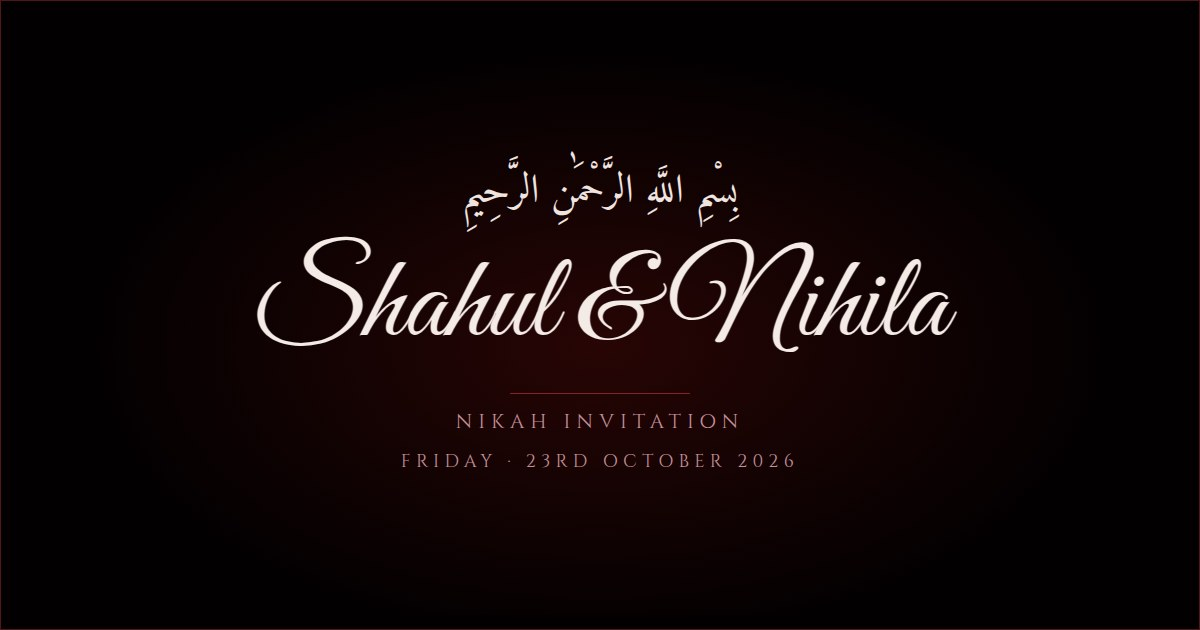
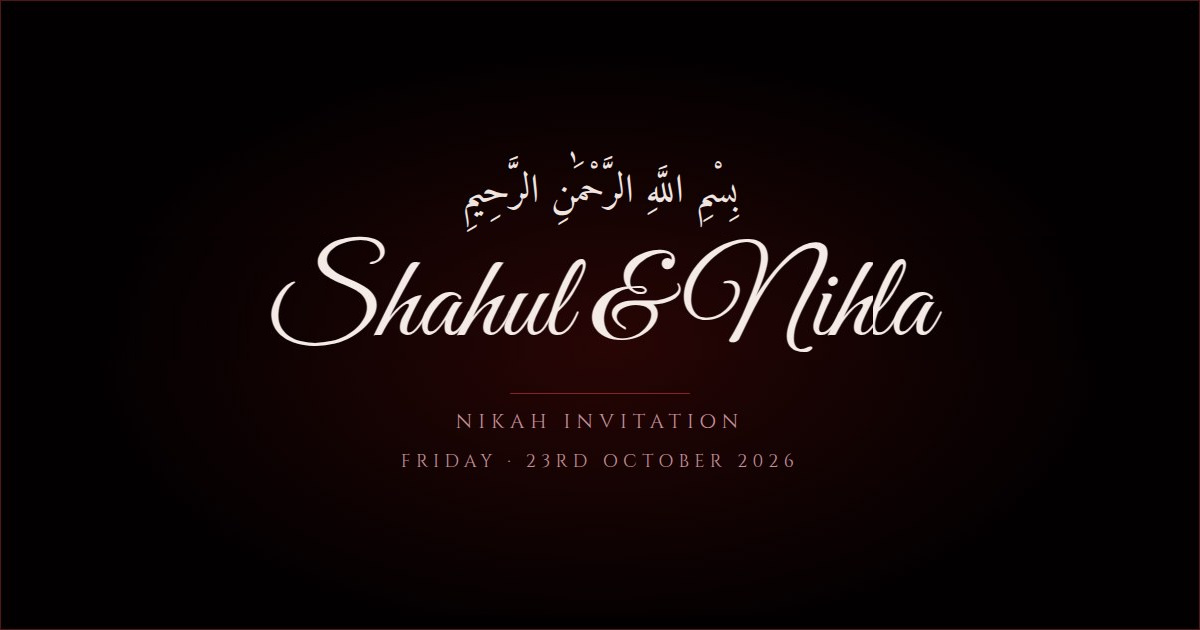
first commit

Changed region(s): [[0.2158, 0.3619, 0.8017, 0.573]]

diff --git a/index.html b/index.html
@@ -4,25 +4,25 @@
 <head>
   <meta charset="UTF-8">
   <meta name="viewport" content="width=device-width, initial-scale=1.0">
-  <title>Shahul &amp; Nihila — Nikah Invitation</title>
+  <title>Shahul &amp; Nihla — Nikah Invitation</title>
   <meta name="description"
-    content="Nikah invitation for Shahul and Nihila — Friday, 23rd October 2026 at West Meenadathur Juma Masjid, Moochikkal">
+    content="Nikah invitation for Shahul and Nihla — Friday, 23rd October 2026 at West Meenadathur Juma Masjid, Moochikkal">
 
   <!-- Open Graph -->
   <meta property="og:type" content="website">
-  <meta property="og:url" content="https://shahul-nihila.vercel.app/">
-  <meta property="og:title" content="Shahul &amp; Nihila — Nikah Invitation">
-  <meta property="og:description" content="Nikah invitation for Shahul and Nihila — Friday, 23rd October 2026">
-  <meta property="og:image" content="https://shahul-nihila.vercel.app/og.jpg">
+  <meta property="og:url" content="https://shahul-nihla.vercel.app/">
+  <meta property="og:title" content="Shahul &amp; Nihla — Nikah Invitation">
+  <meta property="og:description" content="Nikah invitation for Shahul and Nihla — Friday, 23rd October 2026">
+  <meta property="og:image" content="https://shahul-nihla.vercel.app/og.jpg">
   <meta property="og:image:width" content="1200">
   <meta property="og:image:height" content="630">
 
   <!-- Twitter -->
   <meta property="twitter:card" content="summary_large_image">
-  <meta property="twitter:url" content="https://shahul-nihila.vercel.app/">
-  <meta property="twitter:title" content="Shahul &amp; Nihila — Nikah Invitation">
-  <meta property="twitter:description" content="Nikah invitation for Shahul and Nihila — Friday, 23rd October 2026">
-  <meta property="twitter:image" content="https://shahul-nihila.vercel.app/og.jpg">
+  <meta property="twitter:url" content="https://shahul-nihla.vercel.app/">
+  <meta property="twitter:title" content="Shahul &amp; Nihla — Nikah Invitation">
+  <meta property="twitter:description" content="Nikah invitation for Shahul and Nihla — Friday, 23rd October 2026">
+  <meta property="twitter:image" content="https://shahul-nihla.vercel.app/og.jpg">
 
   <link rel="preconnect" href="https://fonts.googleapis.com">
   <link rel="preconnect" href="https://fonts.gstatic.com" crossorigin>
@@ -85,7 +85,7 @@
       <div class="splash-names">
         <span class="splash-name">Shahul</span>
         <span class="splash-amp">&amp;</span>
-        <span class="splash-name">Nihila</span>
+        <span class="splash-name">Nihla</span>
       </div>
       <p class="splash-tagline">Together with our families</p>
       <button class="splash-btn" id="openInvitationBtn">
@@ -135,7 +135,7 @@
         </span>
         <span class="amp">&amp;</span>
         <span class="name-block">
-          <span class="name-text">Nihila</span>
+          <span class="name-text">Nihla</span>
         </span>
       </h1>
 
@@ -409,7 +409,7 @@
     <p class="thankyou-text">
       We are grateful for your love, prayers, and presence on this blessed occasion.
     </p>
-    <p class="thankyou-names">Shahul &amp; Nihila</p>
+    <p class="thankyou-names">Shahul &amp; Nihla</p>
     <div class="footer-credit">
       <span class="footer-credit-line" aria-hidden="true"></span>
       <p class="footer-credit-text">Crafted with <span class="footer-credit-heart" aria-hidden="true">&hearts;</span> for your special day</p>

diff --git a/script.js b/script.js
@@ -296,7 +296,7 @@ function showRsvpSuccess() {
 
 // 📱 Change this to the target WhatsApp number (international format, no + or spaces)
 // Example: India +91 98765 43210  →  919876543210
-const WHATSAPP_NUMBER = '919037718049'; // Shahul & Nihila
+const WHATSAPP_NUMBER = '919037718049'; // Shahul & Nihla
 
 const wishForm     = document.getElementById('wishForm');
 const wishSuccess  = document.getElementById('wishSuccess');
@@ -327,7 +327,7 @@ if (wishForm) {
     if (!valid) { nameEl.focus(); return; }
 
     // Build WhatsApp deep-link with pre-filled message
-    const text = `*Nikah Wish for Shahul & Nihila*\n\n*From:* ${name}\n\n*Message:*\n${msg}`;
+    const text = `*Nikah Wish for Shahul & Nihla*\n\n*From:* ${name}\n\n*Message:*\n${msg}`;
     const url  = `https://wa.me/${WHATSAPP_NUMBER}?text=${encodeURIComponent(text)}`;
 
     window.location.href = url;
